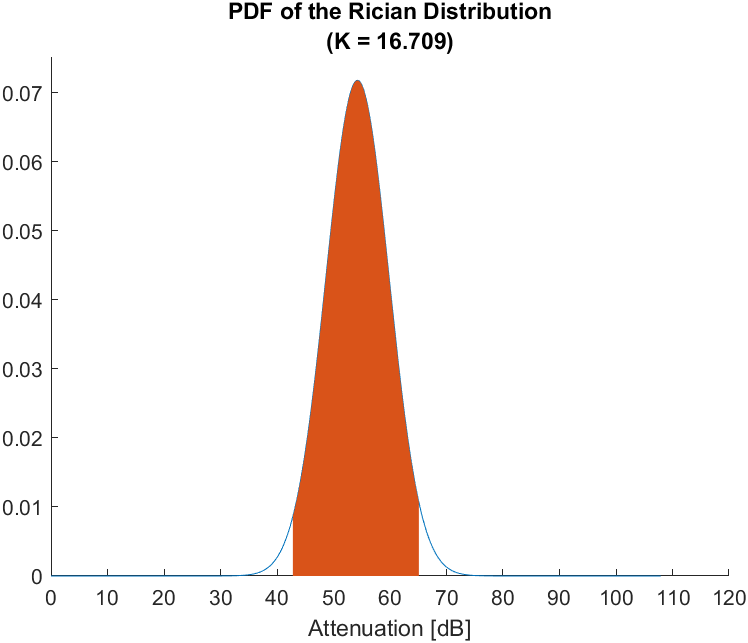
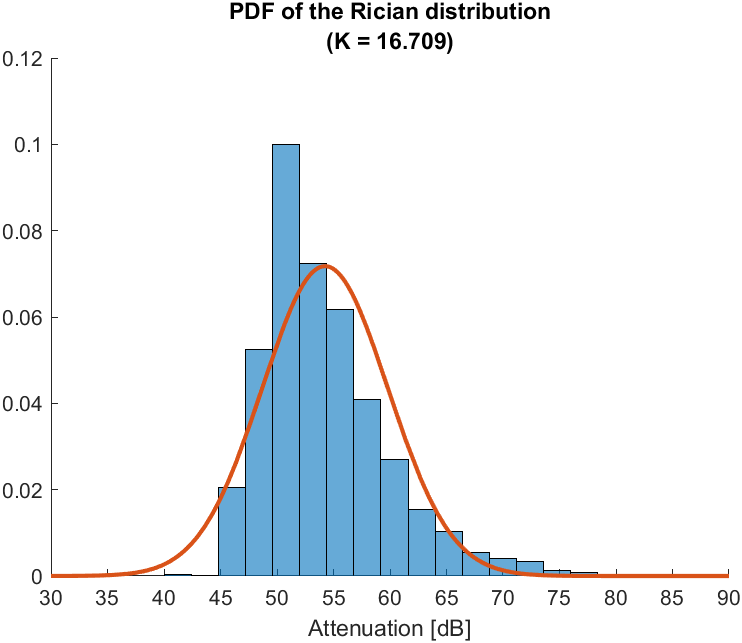
update figures

diff --git a/Radiation_Pattern.m b/Radiation_Pattern.m
@@ -27,37 +27,39 @@ patternAzimuth(antenna, 1.16*10^9)
 patternElevation(antenna, 1.16*10^9)
 
 
-%% Polar plot Azimut
+%% Polar plot Azimuth
 
 figure()
-polarpattern(phi,T_A.Amplitude,...
-            'AngleAtTop',0);
+polarplot(deg2rad(phi),T_A.Amplitude);
 hold on
-polarpattern(phi,T_B.Amplitude,...
-            'AngleAtTop',0,...
-            'TitleTop','Radiation Pattern in Azimuth (zero elevation)');
-        
-legend('Antenna A','Antenna B','Location','Best')
-        
+polarplot(deg2rad(phi),T_B.Amplitude)
+thetaticks(phi(1):15:phi(end));
+rlim([-65 -35]); rticks(-60:5:-40); rticklabels({'-60','','-50','','-40'})
+title('Radiation Pattern in Azimuth (zero elevation)')
+legend('Antenna A','Antenna B','Location','SouthOutside')
+
+ax = gca;
+ax.ThetaDir = 'clockwise';
+ax.ThetaZeroLocation = 'top';
+ax.RAxisLocation = 0;
+      
 exportgraphics(gcf,'./Images/Radiation_Pattern_Azimuth.png')
 
 %% Polar plot Elevation
 
 figure()
-polarpattern(theta,T_A.Amplitude_1(1:length(theta)),...
-            'AngleAtTop',0,...
-            'AngleTickLabelFormat','180',...
-            'MagnitudeAxisAngle',180,...
-            'View','Top');
+polarplot(deg2rad(theta),T_A.Amplitude_1(1:length(theta)) );
 hold on
-polarpattern(theta,T_B.Amplitude_1(1:length(theta)),...
-            'AngleAtTop',0,...
-            'AngleTickLabelFormat','180',...
-            'MagnitudeAxisAngle',180,...
-            'View','Top',...
-            'TitleTop','Radiation Pattern in Elevation (zero azimuth)');
-        
-legend('Antenna A','Antenna B','Location','Best')
+polarplot(deg2rad(theta),T_B.Amplitude_1(1:length(theta)) )
+thetaticks(theta(1):15:theta(end)); thetalim([theta(1) theta(end)])
+rticks(-60:5:-40); rticklabels({'-70','','-60','','-50','','-40','','-30'}); rlim([-70 -30])
+title('Radiation Pattern in Elevation (zero azimuth)')
+legend('Antenna A','Antenna B','Location','SouthOutside')
+
+ax = gca;
+ax.ThetaDir = 'clockwise';
+ax.ThetaZeroLocation = 'top';
+ax.RAxisLocation = 0;
         
 exportgraphics(gcf,'./Images/Radiation_Pattern_Elevation.png')
 

diff --git a/Propagation_Models.m b/Propagation_Models.m
@@ -41,26 +41,30 @@ figure();
 polarplot(deg2rad(theta), P, '*--')
 thetalim([theta(1) theta(end)]);
 thetaticks(theta);
-rlim([-65 -35])
+rticks(-60:5:-40); rticklabels({'-60','-55','-50','-45','-40',''}); rlim([-65 -35])
 title('Polarization mismatch')
+
+ax = gca;
+ax.ThetaDir = 'clockwise';
+ax.ThetaZeroLocation = 'top';
 
 exportgraphics(gcf,'./Images/FreeSpace_Polarization.png')
 
     %% Relative angle
 
 theta = -90:15:90; % [°]
-P = [-45.1  -45.0   -55.8   -51.7   -44.3   -40.9   -36.8 ...
-     -35.1  -36.5   -38.0   -43.9   -54.8   -46.2]; % [dBm]
+P = [-46.2  -54.8   -43.9   -38.0   -36.5   -35.1   -36.8   ...
+    -40.9   -44.3   -51.7   -55.8   -45.0   -45.1]; % [dBm]
 
 figure();
 polarplot(deg2rad(theta), P, '*--')
 thetalim([theta(1) theta(end)]);
 thetaticks(theta);
-rlim([-65 -35])
+rticks(-60:5:-40); rticklabels({'-60','','-50','','-40','','-40','','-30'}); rlim([-65 -35])
 title('Relative angle')
 
 ax = gca;
-ax.ThetaDir = 'counterclockwise';
+ax.ThetaDir = 'clockwise';
 ax.ThetaZeroLocation = 'top';
 ax.RAxisLocation = 0;
 
@@ -144,11 +148,10 @@ ci(1) = dist.s - 2*dist.sigma;
 ci(2) = dist.s + 2*dist.sigma;
 
 figure(); hold on
-fplot(pdf, [0 2*dist.s])
-area(linspace(ci(1),ci(2)), pdf(linspace(ci(1),ci(2))), 'LineStyle','none')
-ylim( [0 0.075] )
-xticks(0:10:120)
-xlabel('Attenuation [dB]'); title({'PDF of the Rician Distribution',sprintf('(K = %0.3f)',K)})
+h = histogram(attenuation, 17,'Normalization','pdf');
+fplot(pdf, [30 90], 'LineWidth',2)
+xticks(30:5:90)
+xlabel('Attenuation [dB]'); title({'PDF of the Rician distribution',sprintf('(K = %0.3f)',K)})
 
 exportgraphics(gcf,'./Images/SmallScale_Rician_Distribution.png')
 

diff --git a/Characterization.m b/Characterization.m
@@ -71,7 +71,7 @@ exportgraphics(gcf,'./Images/VSWR_Calculated.png')
 
     % VSWR superimposed
 
-figure(); t = tiledlayout(1,2,'TileSpacing','Compact','Padding','Compact');
+figure('Position',[560 550 820 430]); t = tiledlayout(1,2,'TileSpacing','Compact','Padding','Compact');
 nexttile; hold on
 plot(VSWR_A.x*10^-9, VSWR_A.y)
 plot(VSWR_A.x*10^-9, VSWR_A_calc)
@@ -106,7 +106,7 @@ p_B = InterX([f;y_B],[f;2*ones(1,length(f))]);
 BW_A = p_A(1,4) - p_A(1,3); 
 BW_B = p_B(1,4) - p_B(1,3);
 
-figure(); t = tiledlayout(1,2,'TileSpacing','Compact','Padding','Compact');
+figure('Position',[560 550 820 430]); t = tiledlayout(1,2,'TileSpacing','Compact','Padding','Compact');
 nexttile; hold on
 plot(VSWR_A.x*10^-9, VSWR_A.y)
 yline(2,'r:')
@@ -124,7 +124,7 @@ grid on, grid minor
 title('Antenna B','FontSize',12)
 
 xlabel(t,'Frequency [GHz]','FontSize',12), ylabel(t,'VSWR [/]','FontSize',12)
-title(t,'Center frequency and Bandwidth','FontSize',14)
+title(t,'Bandwidth and center frequency','FontSize',14)
 linkaxes(t.Children,'xy')
 
 exportgraphics(gcf,'./Images/CenterFrequency_Bandwidth.png')
@@ -172,7 +172,7 @@ p = smithplot(K_A,'ro',...
             'GridType','ZY');
 hold on
 smithplot(K_B,'bo')
-legend('Antenna A', 'Antenna B','Location','Best')
+legend('Antenna A', 'Antenna B','Location','SouthWest')
 
 exportgraphics(gcf,'./Images/SmithChart_Before.png')
 
